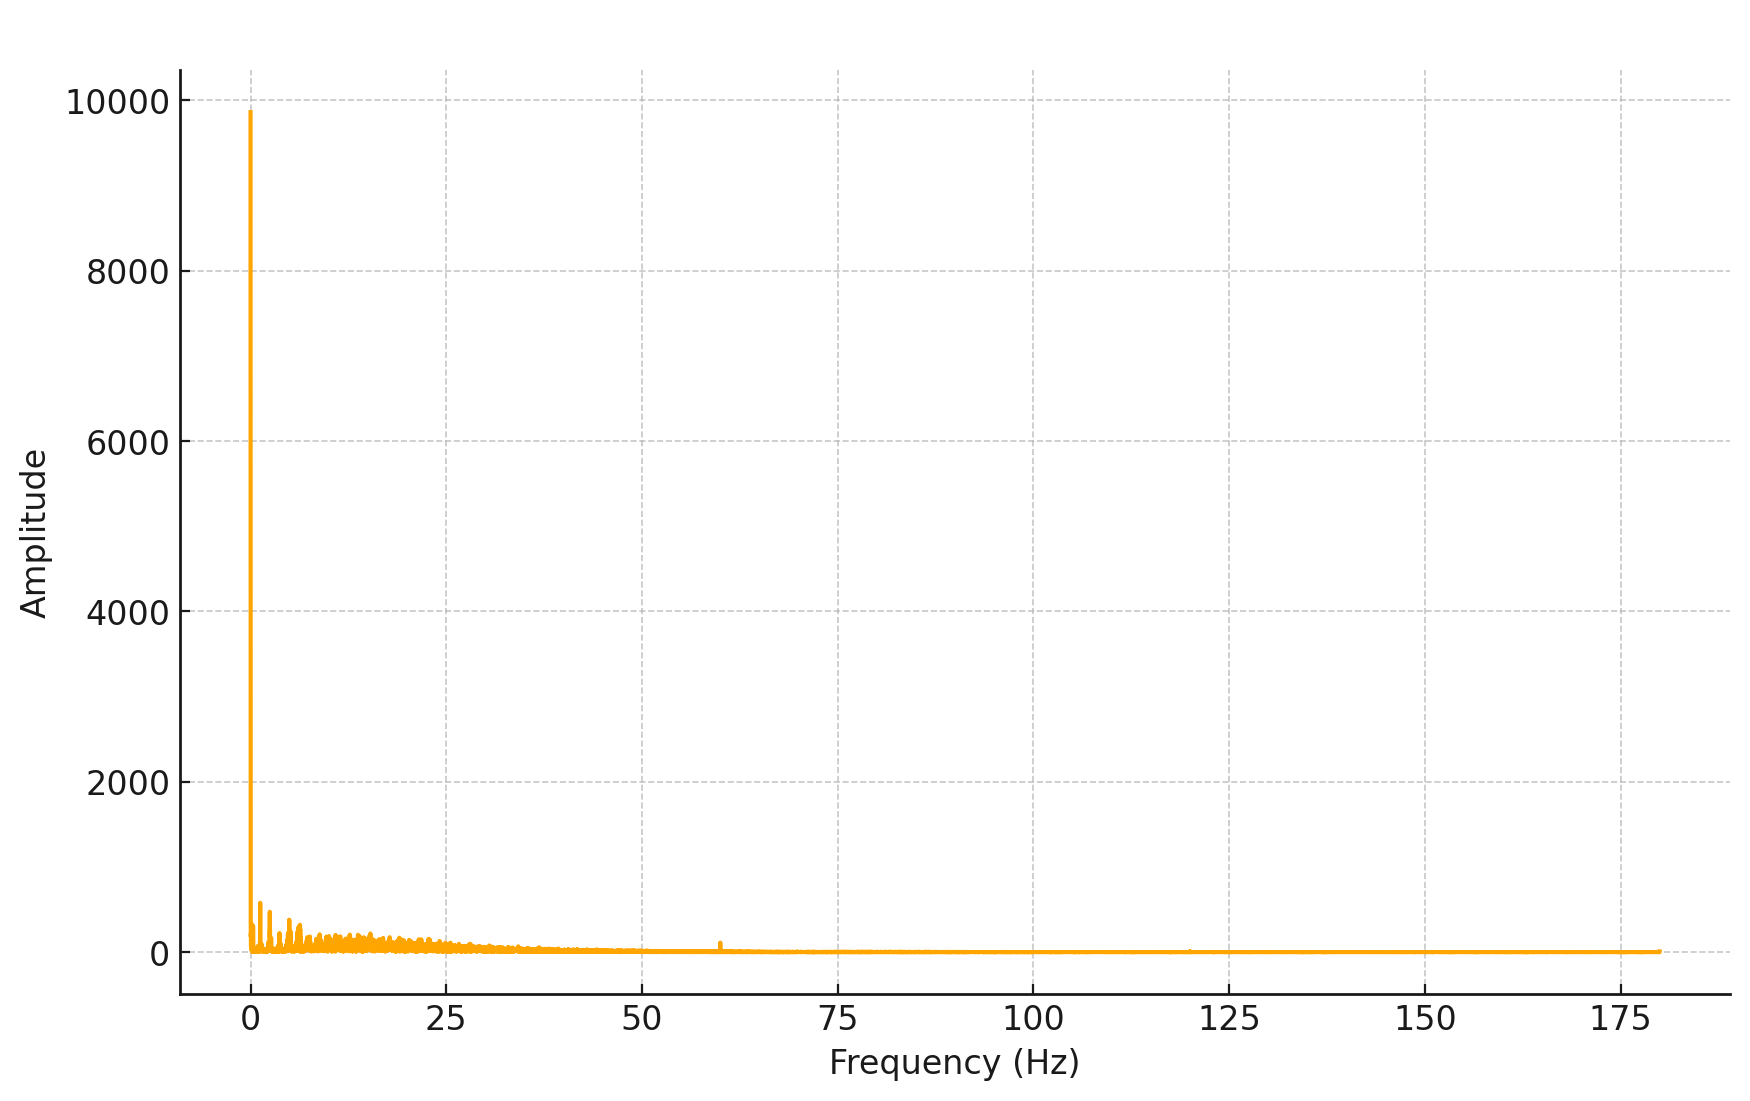
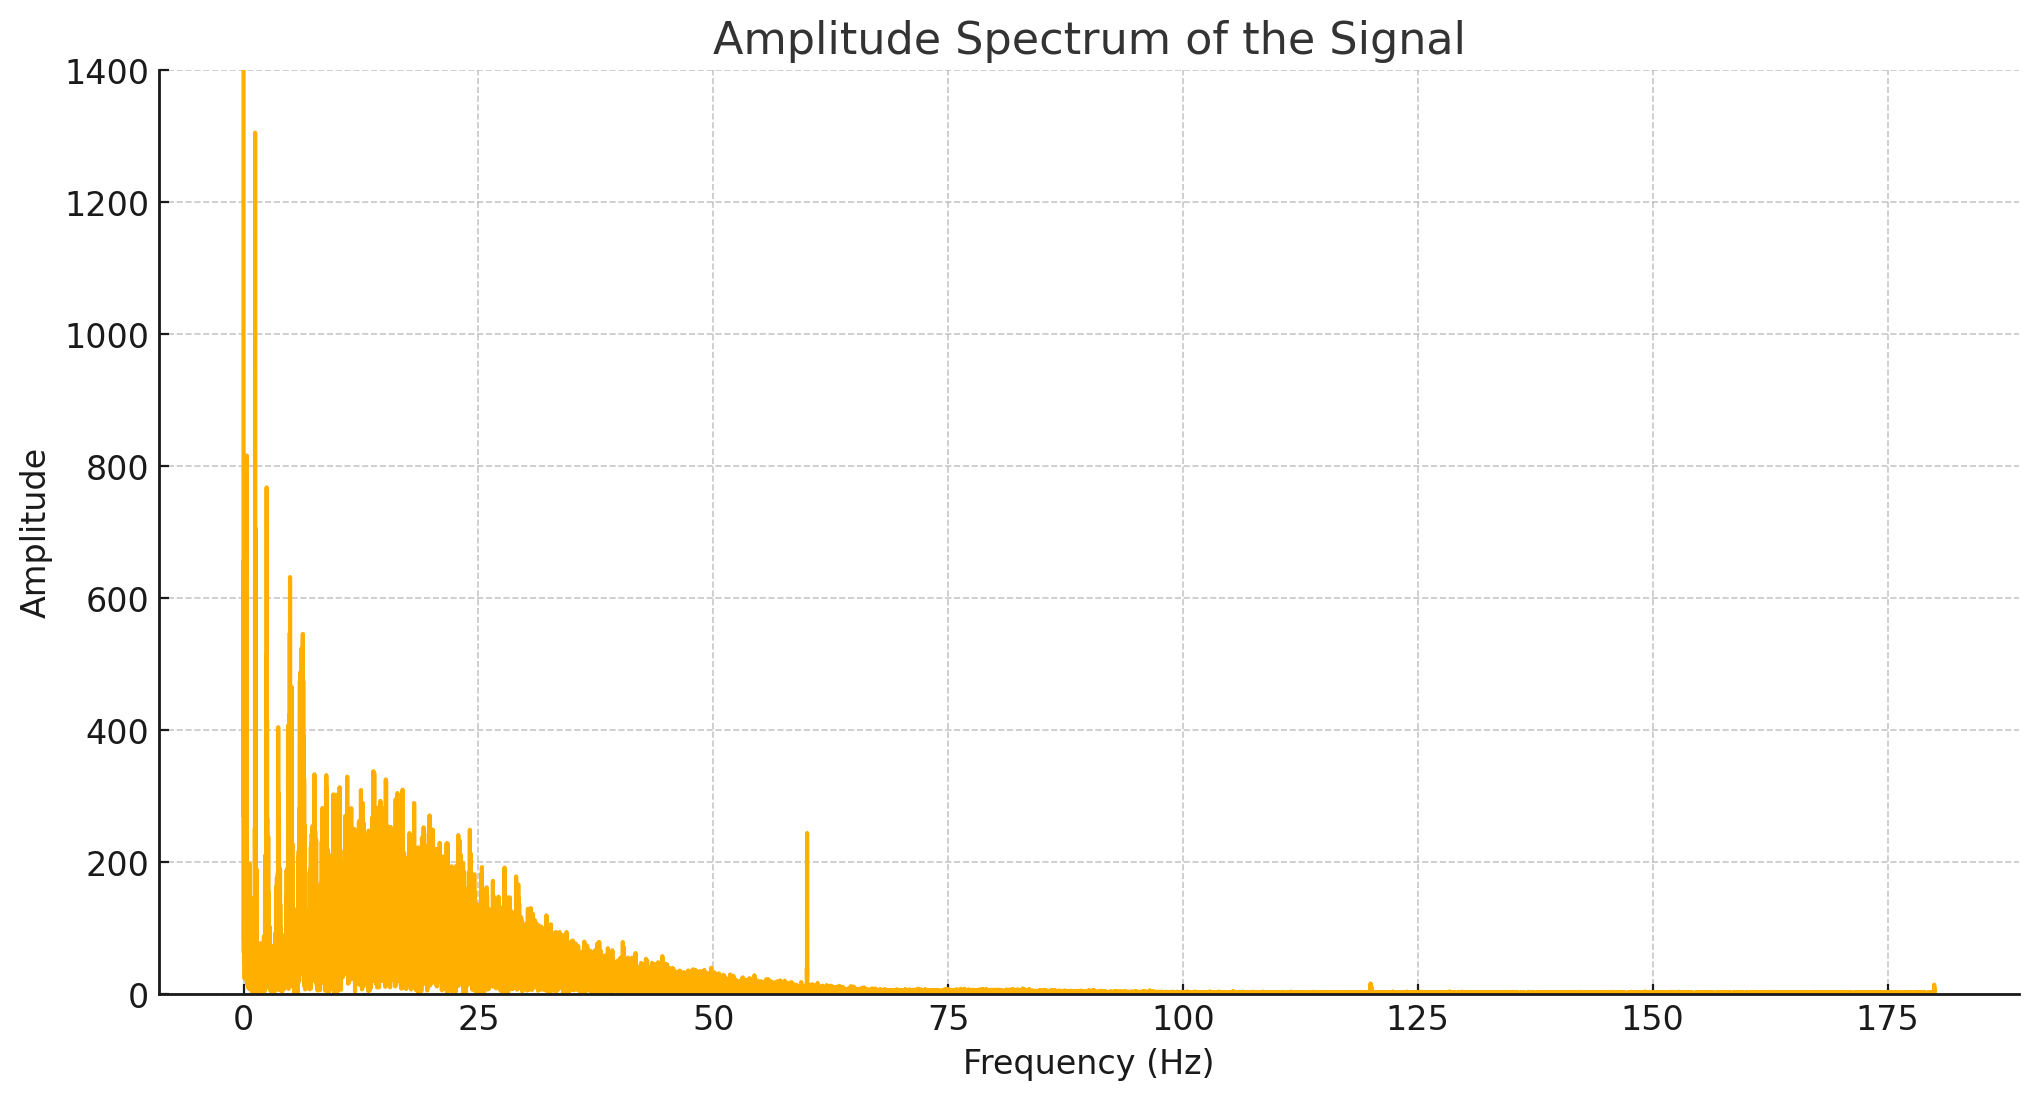
Ex 3 is done

diff --git a/docs/ex_3.md b/docs/ex_3.md
@@ -8,7 +8,7 @@ Analiza sygnału EKG w dziedzinie częstotliwości
 
 Celem ćwiczenia jest obserwacja widma sygnału EKG.
 
-1) Wczytać sygnał ekg100.txt i ocenić go wizualnie na wykresie
+**1) Wczytać sygnał ekg100.txt i ocenić go wizualnie na wykresie**
 
 ![ex_3_1.png](ex_3_1.png)
 
@@ -26,45 +26,72 @@ Wykres EKG wydaje się być poprawny, z wyraźnymi załamkami QRS i minimalnymi 
 Częstotliwość próbkowania i zakres czasowy są odpowiednie, a parametry wykresu 
 dobrze dobrane do wizualnej analizy sygnału EKG. 
 
-2) Wyznaczyć jego dyskretną transformatę Fouriera i przedstawić widmo amplitudowe 
+**2) Wyznaczyć jego dyskretną transformatę Fouriera i przedstawić widmo amplitudowe 
 sygnału w funkcji częstotliwości w zakresie [0, fs/2], gdzie fs oznacza
-częstotliwość próbkowania.
+częstotliwość próbkowania.**
+
+---
 
 ![ex_3_2.png](ex_3_2.png)
 
-Powyższy wykres przedstawia transformację Fouriera sygnału EKG, 
-co pozwala na analizę częstotliwościową tego sygnału. Wykres pokazuje, że większość 
-energii sygnału EKG jest skoncentrowana w niskich częstotliwościach, co jest typowe 
-dla sygnałów serca bijącego z relatywnie niską częstotliwością. Widoczny jest bardzo 
-wysoki pik na niskich częstotliwościach, a pozostałe częstotliwości mają znacznie 
-mniejsze amplitudy, co oznacza, że sygnał EKG ma niewielką ilość energii w wyższych 
-częstotliwościach.
+Powyższy wykres przedstawia widmo amplitudowe sygnału EKG, gdzie oś pozioma pokazuje
+częstotliwości w hercach (Hz), a oś pionowa reprezentuje amplitudy.
+Widmo amplitudowe sygnału EKG przedstawia rozkład częstotliwościowy sygnału, czyli pokazuje, 
+jakie składowe częstotliwościowe są obecne w sygnale i z jaką amplitudą. 
 
-Zakres wykresu sięga do 200 Hz, ale wszystkie istotne komponenty sygnału są 
-skoncentrowane poniżej około 50 Hz, co jest zgodne z typowym EKG, które ma główne 
-komponenty częstotliwościowe w przedziale 0-50 Hz. 
+Na wykresie widzimy, 
+że największe amplitudy znajdują się w niskich częstotliwościach (poniżej 20 Hz). Jest to 
+zgodne z charakterystyką sygnału EKG, ponieważ większość energii sygnału EKG skupiona jest 
+w przedziale od 0.05 Hz do 40 Hz. Najważniejsze składowe, takie jak załamki P, QRS, i T, 
+mają największą energię w tych częstotliwościach. 
 
-Transformacja Fouriera jest 
-narzędziem umożliwiającym analizę widmową sygnału, co pozwala na identyfikację i 
-analizę różnych częstotliwości w sygnale. W kontekście EKG, analiza widmowa może 
-pomóc w identyfikacji anomalii, takich jak arytmie, które mogą mieć specyficzne 
-cechy częstotliwościowe.
+W okolicach 0 Hz widzimy bardzo wysoki pik, 
+co może wskazywać na obecność składowej stałej w sygnale. Jest to normalne w przypadku sygnałów 
+EKG, ponieważ mogą zawierać pewne przesunięcie DC (składowa stała), które nie niesie użytecznej 
+informacji diagnostycznej, ale jest efektem nieidealnego sprzętu pomiarowego lub innych źródeł 
+zakłóceń. 
+
+Amplituda składowych częstotliwościowych powyżej 50 Hz jest znacznie mniejsza, co 
+również jest typowe dla sygnałów EKG. W rzeczywistości sygnały EKG są zwykle filtrowane w 
+celu usunięcia składowych o częstotliwościach powyżej 50-60 Hz, które mogą być wynikiem 
+zakłóceń elektromagnetycznych (np. z sieci elektrycznej). 
+
+Widoczne są pojedyncze piki w okolicach 
+60 Hz, co może być wynikiem interferencji sieci elektrycznej. Jest to częsty problem w 
+nagraniach EKG i często stosuje się filtry do eliminacji tych zakłóceń.
 
 ---
+
+**3) Wyznaczyć odwrotną dyskretną transformatę Fouriera ciągu wyznaczonego w
+punkcie 2 i porównać otrzymany ciąg próbek z pierwotnym sygnałem ekg100
+(można wyznaczyć różnicę sygnałów)**
 
 ![ex_3_3.png](ex_3_3.png)
 
-Powyższy wykres przedstawia widmo amplitudowe sygnału EKG, gdzie oś pozioma pokazuje
-częstotliwości w hercach (Hz), a oś pionowa reprezentuje amplitudy. 
+Po zastosowaniu odwrotnej transformaty Fouriera (IDFT) do sygnału EKG, otrzymany sygnał jest bardzo 
+zbliżony do oryginalnego. Główne cechy sygnału, takie jak piki i doliny, które odpowiadają zespołom 
+QRS, falom P i T w typowym sygnale EKG, są dobrze zachowane. To oznacza, że transformata Fouriera 
+i jej odwrotność skutecznie zachowują krytyczne elementy sygnału EKG niezbędne do diagnostyki.
 
-Na wykresie wyraźnie widoczny jest pik przy częstotliwości 60 Hz, 
-co sugeruje zakłócenia sieciowe wynikające z zasilania elektrycznego, które w 
-wielu krajach wynosi 50 lub 60 Hz. Ponadto, amplituda sygnału maleje wraz ze 
-wzrostem częstotliwości, co jest typowe dla sygnałów biologicznych, które mają 
-tendencję do posiadania większości energii w niższych pasmach częstotliwości.
+Linia bazowa w sygnale zrekonstruowanym jest zgodna z oryginalnym sygnałem, 
+bez znaczących przesunięć. Amplituda pików w zrekonstruowanym sygnale jest również zgodna z 
+oryginałem, co oznacza, że intensywność sygnału została zachowana.
 
----
+Komponenty wysokiej częstotliwości zostały dobrze zachowane, co jest kluczowe dla uchwycenia 
+szybkich zmian w sygnale, takich jak strome wzrosty i spadki zespołu QRS.
 
-3) Wyznaczyć odwrotną dyskretną transformatę Fouriera ciągu wyznaczonego w
-punkcie 2 i porównać otrzymany ciąg próbek z pierwotnym sygnałem ecg100
-(można wyznaczyć różnicę sygnałów)
+
+![ex_3_4.png](ex_3_4.png)
+
+Wykres różnicy między oryginalnym sygnałem EKG a odwrotną transformatą Fouriera (IDFT) sygnału 
+dostarcza istotnych informacji w kontekście analizy EKG. Po pierwsze, dokładność rekonstrukcji: 
+w idealnym przypadku różnica powinna wynosić zero, co oznacza, że IDFT doskonale odwzorowuje 
+oryginalny sygnał. W praktyce mogą występować niewielkie różnice z powodu błędów numerycznych 
+i obcięcia wyższych częstotliwości. Znaczne odchylenia mogą wskazywać na obecność szumów lub 
+artefaktów, które nie zostały idealnie odwzorowane. Niski poziom różnic sugeruje, że sygnał 
+jest stosunkowo czysty i procesy transformacji Fouriera dokładnie odwzorowują sygnał.
+
+Transformata Fouriera działa również jako filtr, potencjalnie wygładzając pewne szumy, 
+jednocześnie redukując komponenty o wysokiej częstotliwości. Wykres różnicy może pokazywać
+efekt netto tego filtrowania. Jeśli pewne szumy o wysokiej częstotliwości są redukowane, 
+może to być korzystne dla wyraźniejszej interpretacji sygnału.
